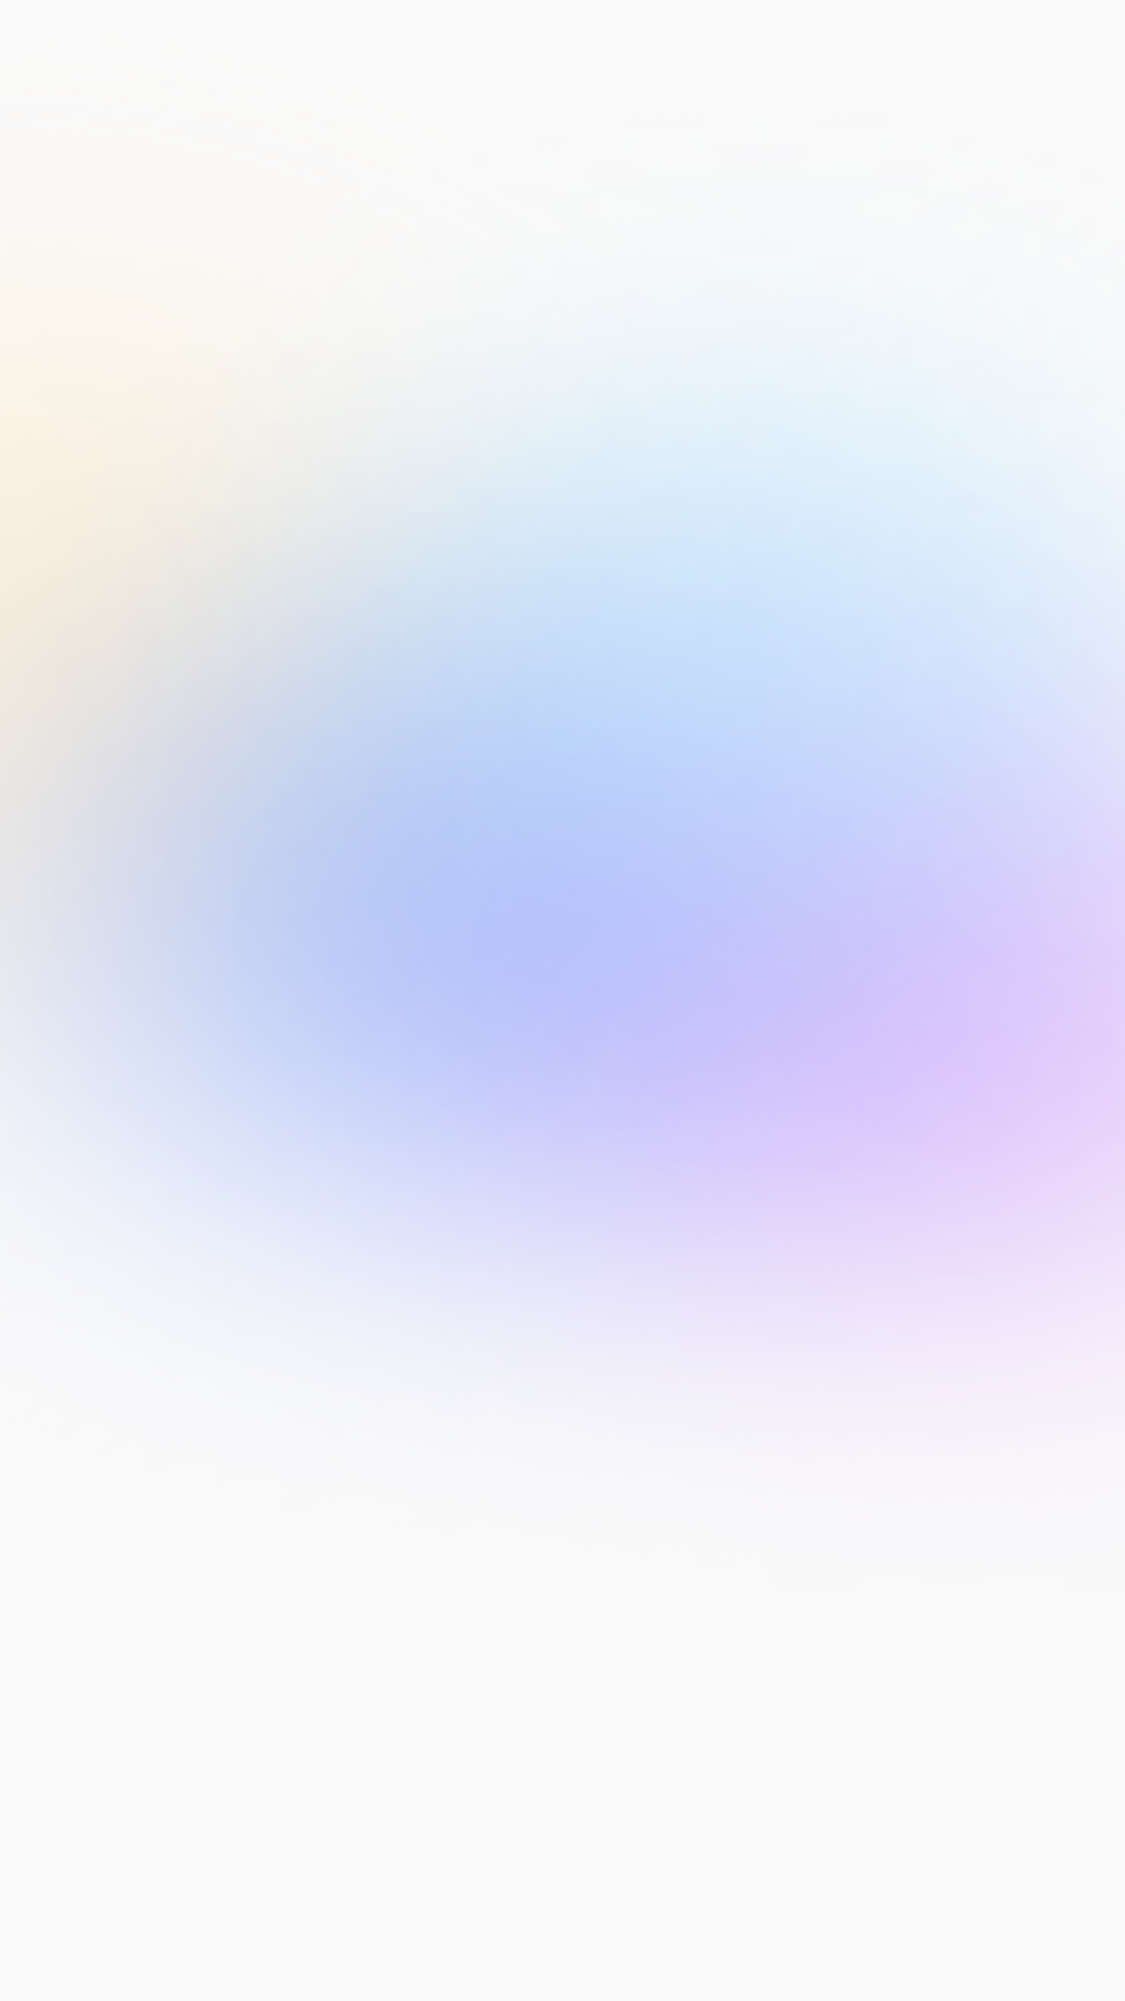
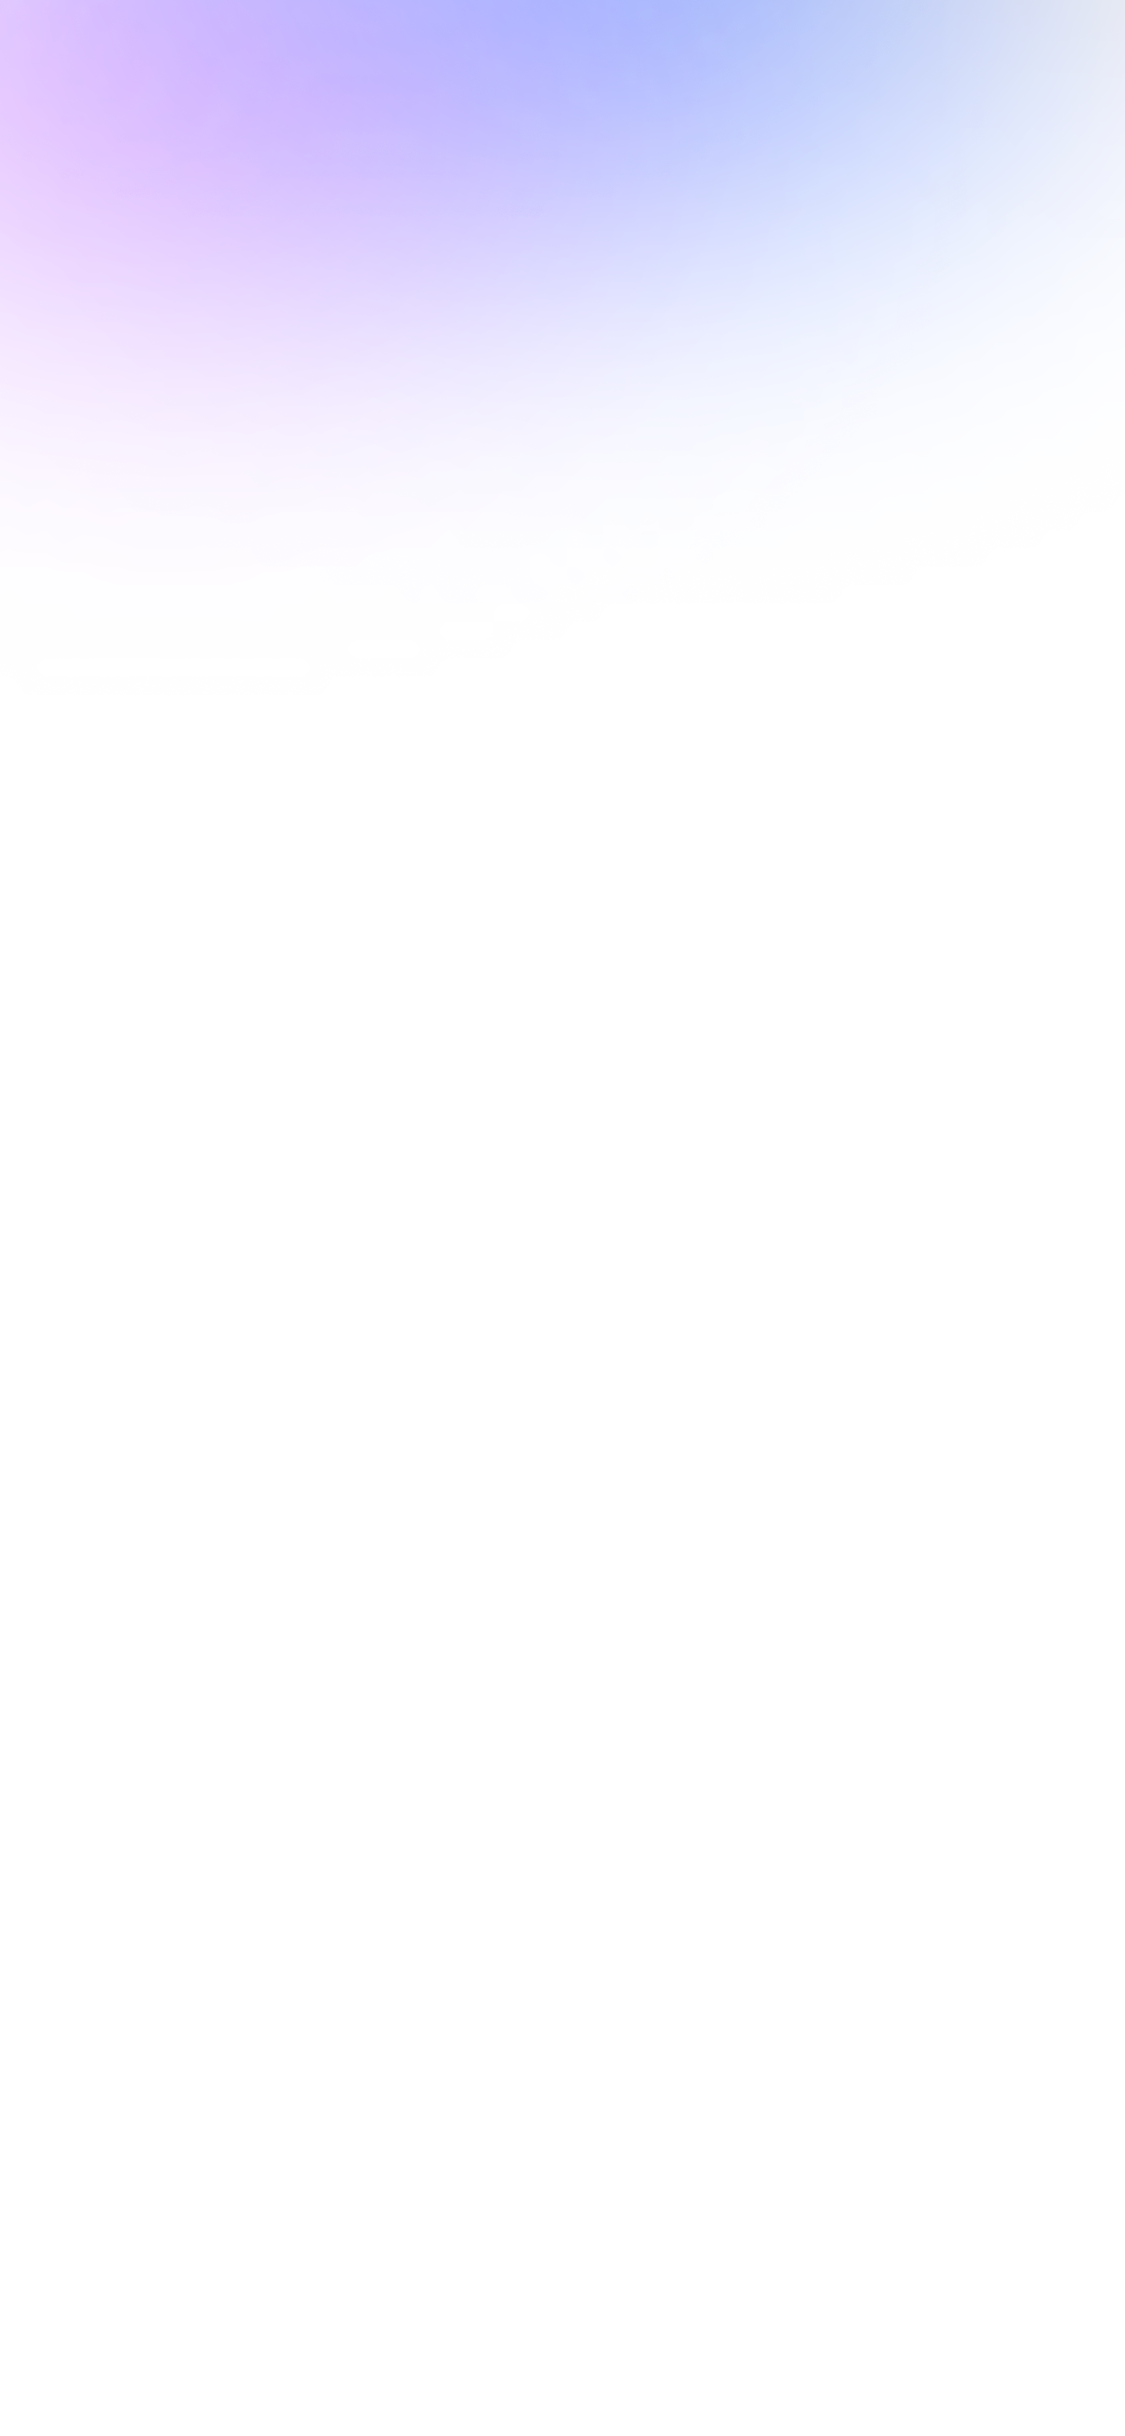
修改ui

diff --git a/lib/person/page/user_membership_upgrade_page.dart b/lib/person/page/user_membership_upgrade_page.dart
@@ -15,6 +15,7 @@ import 'package:Bubble/res/dimens.dart';
 import 'package:Bubble/res/gaps.dart';
 import 'package:Bubble/routers/fluro_navigator.dart';
 import 'package:Bubble/util/event_bus.dart';
+import 'package:Bubble/util/image_utils.dart';
 import 'package:Bubble/util/notification_utils.dart';
 import 'package:Bubble/widgets/bx_cupertino_navigation_bar.dart';
 import 'package:Bubble/widgets/load_image.dart';
@@ -241,18 +242,20 @@ class _UserMembershipUpgradePageState extends State<UserMembershipUpgradePage>
               Colours.color_F3EEFE,
             ],
           )),
-      margin: const EdgeInsets.all(10),
-      padding: const EdgeInsets.all(10),
+      margin: const EdgeInsets.all(9),
+      padding: const EdgeInsets.only(left: 13, right: 17, top: 6),
       child: Column(
         crossAxisAlignment: CrossAxisAlignment.start,
         children: [
           Row(
             children: [
+              Gaps.hGap8,
               const LoadAssetImage(
                 'zhuanshi',
                 width: 48.0,
                 height: 48.0,
               ),
+              Gaps.hGap4,
               Text(
                 "升级会员",
                 key: keyTab,
@@ -264,10 +267,10 @@ class _UserMembershipUpgradePageState extends State<UserMembershipUpgradePage>
               ),
             ],
           ),
-          Gaps.vGap4,
+          // Gaps.vGap4,
           SizedBox(
             // margin: const EdgeInsets.only(top: 10),
-            height: 200.0,
+            height: 180.0,
             child: ListView.builder(
               scrollDirection: Axis.horizontal,
               itemCount: listData.data.length,
@@ -597,114 +600,121 @@ class _UserMembershipUpgradePageState extends State<UserMembershipUpgradePage>
           size: Size.infinite,
           child: isLoding
               ? lodingView()
-              : Stack(children: [
-                  NotificationListener<ScrollNotification>(
-                    onNotification: (ScrollNotification notification) {
-                      boxTab ??= keyTab.currentContext!.findRenderObject()
-                          as RenderBox?;
-                      offsetTab = boxTab!.localToGlobal(Offset.zero);
+              : Container(
+                  width: double.infinity,
+                  decoration: BoxDecoration(
+                      image: DecorationImage(
+                          image: ImageUtils.getAssetImage("person_bg"),
+                          fit: BoxFit.fill)),
+                  child: Stack(children: [
+                    NotificationListener<ScrollNotification>(
+                      onNotification: (ScrollNotification notification) {
+                        boxTab ??= keyTab.currentContext!.findRenderObject()
+                            as RenderBox?;
+                        offsetTab = boxTab!.localToGlobal(Offset.zero);
 
-                      if (offsetTab.dy < 110.0) {
-                        isUpdateAppBar = true;
-                        // isUpdatePage = false;
-                        // isUpdateTheme = true;
-                      } else {
-                        isUpdateAppBar = false;
-                        // isUpdatePage = true;
-                        // isUpdateTheme = false;
-                      }
-                      setState(() {});
+                        if (offsetTab.dy < 110.0) {
+                          isUpdateAppBar = true;
+                          // isUpdatePage = false;
+                          // isUpdateTheme = true;
+                        } else {
+                          isUpdateAppBar = false;
+                          // isUpdatePage = true;
+                          // isUpdateTheme = false;
+                        }
+                        setState(() {});
 
-                      return true;
-                    },
-                    child: CustomScrollView(slivers: [
-                      SliverToBoxAdapter(
-                        child: Container(
-                          // color: Colors.amber,
-                          height: _screenUtil.statusBarHeight + 40,
-                        ),
-                      ),
-                      SliverToBoxAdapter(
-                        child: userInfoWidget(),
-                      ),
-                      SliverToBoxAdapter(
-                        child: classPayWidget(),
-                      ),
-                      SliverToBoxAdapter(
-                        child: LoadImage(
-                          listData.data[idx].detail.teacherImg,
-                        ),
-                      ),
-                      headWidget("用户评价"),
-                      SliverToBoxAdapter(
-                        child: Container(
-                          margin: const EdgeInsets.only(top: 10),
-                          height: 100.0,
-                          child: ListView.builder(
-                            scrollDirection: Axis.horizontal,
-                            itemCount: listData
-                                .data[idx].detail.userFeedbackImg.length,
-                            itemBuilder: (context, index) {
-                              return SizedBox(
-                                width: 150.0,
-                                child: Card(
-                                  // color: Colors.primaries[index],
-                                  child: LoadImage(
-                                    listData.data[idx].detail
-                                        .userFeedbackImg[index],
-                                  ),
-                                ),
-                              );
-                            },
+                        return true;
+                      },
+                      child: CustomScrollView(slivers: [
+                        SliverToBoxAdapter(
+                          child: Container(
+                            // color: Colors.amber,
+                            height: _screenUtil.statusBarHeight + 40,
                           ),
                         ),
-                      ),
-                      // headWidget("课程详情"),
-                      detailWidget(),
-                      listData.data[idx].type == 1
-                          ? otherHeadWidget("people_head")
-                          : SliverToBoxAdapter(child: Container()),
-                      listData.data[idx].type == 1
-                          ? otherHeadWidget("quanyi_hrad")
-                          : SliverToBoxAdapter(child: Container()),
-                      listData.data[idx].type == 1
-                          ? headWidget("常见问题")
-                          : SliverToBoxAdapter(child: Container()),
-                      listData.data[idx].type == 1
-                          ? problemWidget()
-                          : SliverToBoxAdapter(
-                              child: Container(),
-                            )
-                    ]),
-                  ),
-                  isUpdateAppBar
-                      ? const Positioned(
-                          top: 0,
-                          left: 0,
-                          right: 0,
-                          child: XTCupertinoNavigationBar(
-                            backgroundColor: Color(0xFFFFFFFF),
-                            border: null,
-                            padding: EdgeInsetsDirectional.zero,
-                            leading: NavigationBackWidget(),
-                            middle: Text(
-                              "L1英语口语系统课",
-                              style: TextStyle(fontWeight: FontWeight.bold),
-                            ),
-                          ))
-                      : Positioned(
-                          top: 50,
-                          left: 20,
-                          child: GestureDetector(
-                              onTap: () {
-                                NavigatorUtils.goBack(context);
+                        SliverToBoxAdapter(
+                          child: userInfoWidget(),
+                        ),
+                        SliverToBoxAdapter(
+                          child: classPayWidget(),
+                        ),
+                        SliverToBoxAdapter(
+                          child: LoadImage(
+                            listData.data[idx].detail.teacherImg,
+                          ),
+                        ),
+                        headWidget("用户评价"),
+                        SliverToBoxAdapter(
+                          child: Container(
+                            margin: const EdgeInsets.only(top: 10),
+                            height: 100.0,
+                            child: ListView.builder(
+                              scrollDirection: Axis.horizontal,
+                              itemCount: listData
+                                  .data[idx].detail.userFeedbackImg.length,
+                              itemBuilder: (context, index) {
+                                return SizedBox(
+                                  width: 150.0,
+                                  child: Card(
+                                    // color: Colors.primaries[index],
+                                    child: LoadImage(
+                                      listData.data[idx].detail
+                                          .userFeedbackImg[index],
+                                    ),
+                                  ),
+                                );
                               },
-                              child: const LoadAssetImage(
-                                "ic_back_icon",
-                                width: 20.0,
-                                height: 20.0,
-                              ))),
-                ]),
+                            ),
+                          ),
+                        ),
+                        // headWidget("课程详情"),
+                        detailWidget(),
+                        listData.data[idx].type == 1
+                            ? otherHeadWidget("people_head")
+                            : SliverToBoxAdapter(child: Container()),
+                        listData.data[idx].type == 1
+                            ? otherHeadWidget("quanyi_hrad")
+                            : SliverToBoxAdapter(child: Container()),
+                        listData.data[idx].type == 1
+                            ? headWidget("常见问题")
+                            : SliverToBoxAdapter(child: Container()),
+                        listData.data[idx].type == 1
+                            ? problemWidget()
+                            : SliverToBoxAdapter(
+                                child: Container(),
+                              )
+                      ]),
+                    ),
+                    isUpdateAppBar
+                        ? const Positioned(
+                            top: 0,
+                            left: 0,
+                            right: 0,
+                            child: XTCupertinoNavigationBar(
+                              backgroundColor: Color(0xFFFFFFFF),
+                              border: null,
+                              padding: EdgeInsetsDirectional.zero,
+                              leading: NavigationBackWidget(),
+                              middle: Text(
+                                "升级会员",
+                                style: TextStyle(fontWeight: FontWeight.bold),
+                              ),
+                            ))
+                        : Positioned(
+                            top: 50,
+                            left: 20,
+                            child: GestureDetector(
+                                onTap: () {
+                                  NavigatorUtils.goBack(context);
+                                },
+                                child: const LoadAssetImage(
+                                  "ic_back_icon",
+                                  width: 20.0,
+                                  height: 20.0,
+                                ))),
+                  ]),
+                ),
         ),
       ),
     );

diff --git a/lib/exam/page/mock_examination_two_page.dart b/lib/exam/page/mock_examination_two_page.dart
@@ -765,7 +765,7 @@ class _MockExaminationTwoPageState extends State<MockExaminationTwoPage>
                 width: double.infinity,
                 decoration: BoxDecoration(
                     image: DecorationImage(
-                        image: ImageUtils.getAssetImage("splash_bg"),
+                        image: ImageUtils.getAssetImage("person_bg"),
                         fit: BoxFit.fill)),
                 child: Column(
                   children: [
@@ -952,7 +952,7 @@ class _MockExaminationTwoPageState extends State<MockExaminationTwoPage>
                                   borderRadius: BorderRadius.circular(10),
                                   image: DecorationImage(
                                       image:
-                                          ImageUtils.getAssetImage("splash_bg"),
+                                          ImageUtils.getAssetImage("person_bg"),
                                       fit: BoxFit.fill)),
                               width: MediaQuery.of(context).size.width -
                                   188 * 2 -

diff --git a/lib/login/page/check_code_page.dart b/lib/login/page/check_code_page.dart
@@ -114,7 +114,7 @@ class _CheckCodePageState extends State<CheckCodePage>
         body: Container(
             decoration: BoxDecoration(
                 image: DecorationImage(
-                    image: ImageUtils.getAssetImage("splash_bg"),
+                    image: ImageUtils.getAssetImage("person_bg"),
                     fit: BoxFit.fill)),
             height: double.infinity,
             width: double.infinity,
@@ -377,7 +377,7 @@ class _CheckTwoCodePageState extends State<CheckTwoCodePage>
         body: Container(
             decoration: BoxDecoration(
                 image: DecorationImage(
-                    image: ImageUtils.getAssetImage("splash_bg"),
+                    image: ImageUtils.getAssetImage("person_bg"),
                     fit: BoxFit.fill)),
             height: double.infinity,
             width: double.infinity,

diff --git a/lib/person/widget/user_membership_upgrade_item.dart b/lib/person/widget/user_membership_upgrade_item.dart
@@ -32,9 +32,9 @@ class _UserMembershipUpgradeItemState extends State<UserMembershipUpgradeItem> {
               color: Colors.white,
             ),
       margin: const EdgeInsets.all(10),
-      padding: const EdgeInsets.all(10),
-      width: 200,
-      height: 200,
+      // padding: const EdgeInsets.all(10),
+      width: 160,
+      height: 160,
       child: Column(
         mainAxisAlignment: MainAxisAlignment.center,
         children: [

diff --git a/lib/login/page/new_one_key_phone_page.dart b/lib/login/page/new_one_key_phone_page.dart
@@ -121,7 +121,7 @@ class _NewOneKeyPhonePageState extends State<NewOneKeyPhonePage>
         body: Container(
           decoration: BoxDecoration(
               image: DecorationImage(
-                  image: ImageUtils.getAssetImage("splash_bg"),
+                  image: ImageUtils.getAssetImage("person_bg"),
                   fit: BoxFit.fill)),
           child: Column(
             // crossAxisAlignment: CrossAxisAlignment.start,

diff --git a/lib/course/page/course_report_page.dart b/lib/course/page/course_report_page.dart
@@ -243,7 +243,7 @@ class _CourseReportPageState extends State<CourseReportPage>
                     decoration: const BoxDecoration(
                       image: DecorationImage(
                         image: AssetImage(
-                          'assets/images/splash_bg.png',
+                          'assets/images/person_bg.png',
                         ),
                         fit: BoxFit.fitHeight,
                       ),

diff --git a/lib/login/page/new_bind_phone_page.dart b/lib/login/page/new_bind_phone_page.dart
@@ -61,7 +61,7 @@ class _NewBindPhonePageState extends State<NewBindPhonePage>
         body: Container(
           decoration: BoxDecoration(
               image: DecorationImage(
-                  image: ImageUtils.getAssetImage("splash_bg"),
+                  image: ImageUtils.getAssetImage("person_bg"),
                   fit: BoxFit.fill)),
           child: Column(
             // crossAxisAlignment: CrossAxisAlignment.start,

diff --git a/lib/login/page/phone_login_page.dart b/lib/login/page/phone_login_page.dart
@@ -91,7 +91,7 @@ class _PhoneLoginPageState extends State<PhoneLoginPage>
         body: Container(
           decoration: BoxDecoration(
               image: DecorationImage(
-                  image: ImageUtils.getAssetImage("splash_bg"),
+                  image: ImageUtils.getAssetImage("person_bg"),
                   fit: BoxFit.fill)),
           child: Column(
             // crossAxisAlignment: CrossAxisAlignment.start,

diff --git a/lib/home/splash_page.dart b/lib/home/splash_page.dart
@@ -142,7 +142,7 @@ class _SplashPageState extends State<SplashPage> {
             body: Container(
           decoration: BoxDecoration(
               image: DecorationImage(
-                  image: ImageUtils.getAssetImage("splash_bg"),
+                  image: ImageUtils.getAssetImage("person_bg"),
                   fit: BoxFit.fill)),
           child: const FractionallyAlignedSizedBox(
             heightFactor: 0.3,

diff --git a/lib/login/page/new_register_page.dart b/lib/login/page/new_register_page.dart
@@ -102,7 +102,7 @@ class _NewRegisterPageState extends State<NewRegisterPage>
         body: Container(
           decoration: BoxDecoration(
               image: DecorationImage(
-                  image: ImageUtils.getAssetImage("splash_bg"),
+                  image: ImageUtils.getAssetImage("person_bg"),
                   fit: BoxFit.fill)),
           child: Column(
             children: [

diff --git a/lib/person/person.dart b/lib/person/person.dart
@@ -209,9 +209,9 @@ class _PersonPageState extends State<PersonPage>
       decoration: const BoxDecoration(
         image: DecorationImage(
           image: AssetImage(
-            'assets/images/splash_bg.png',
+            'assets/images/person_bg.png',
           ),
-          fit: BoxFit.fitHeight,
+          fit: BoxFit.fill,
         ),
       ),
     );

diff --git a/lib/res/colors.dart b/lib/res/colors.dart
@@ -239,4 +239,5 @@ class Colours {
   static const Color color_8F8D8D = Color.fromRGBO(143, 141, 141, 1);
 
   static const Color color_EFE9FF = Color.fromRGBO(239, 233, 255, 1);
+  // static const Color color_FF391E = Color.fromRGBO(2, 233, 255, 1);
 }
